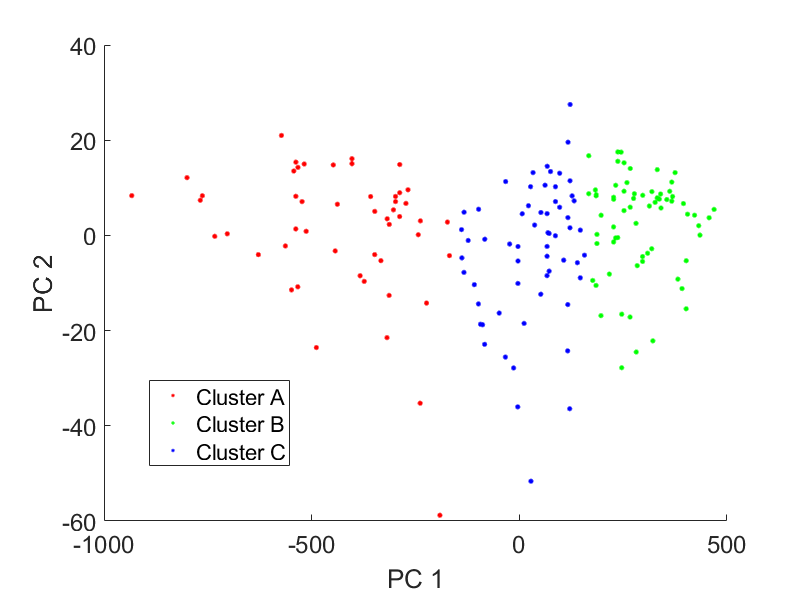
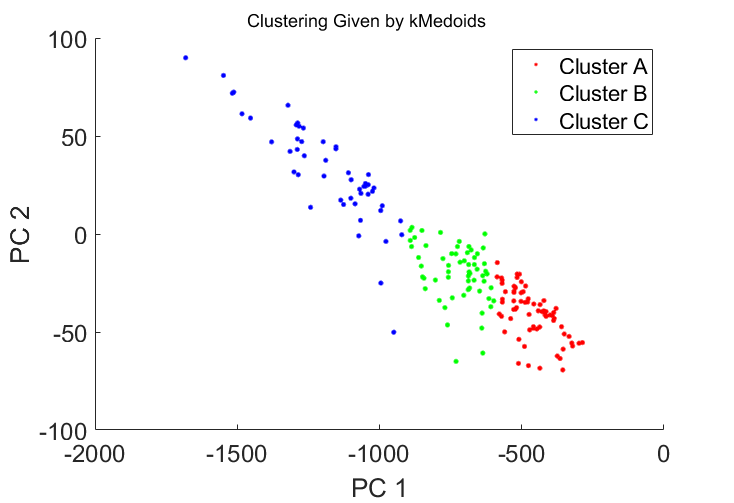
WineAnalysis Finalized -Added WineAnalysis script -Added dMatrix function which takes a data matrix and a distance, produces the resulting distance matrix between all data points

diff --git a/WineAnalysis.m b/WineAnalysis.m
@@ -1,0 +1,90 @@
+%Levent Batakci
+%Analyze all the data!
+
+%Clear vars
+clc
+clear all
+
+%Load WINE data
+load WineData.mat
+I = I';
+
+k=3;
+tau=0.05;
+maxDepth=5;
+
+%Compute the SVD
+Xc = X - sum(X,2) / size(X,2) * ones(1, size(X,2));
+[U, D, V] = svd(X);
+Z2 = [U(:,1) U(:,2)]' * X; %First two PCs of the centered data
+
+figure(1) %Plot the singular values
+plot(1:13, diag(D), '.', 'MarkerSize', 25); %Only two svs (or just 1) matter
+
+%Plot the annotation of the data
+figure(2)
+k1 = Z2(:, I == 1);
+k2 = Z2(:, I == 2);
+k3 = Z2(:, I == 3);
+
+hold on
+scatter(k1(1,:), k1(2,:),125,'r.')
+scatter(k2(1,:), k2(2,:),125,'g.')
+scatter(k3(1,:), k3(2,:),125,'b.')
+legend("Cultivar 1","Cultivar 2","Cultivar 3")
+xlabel("PC 1");
+ylabel("PC 2");
+set(gca,'FontSize', 18);
+sgtitle("Correct Grouping of the Data")
+hold off
+
+%Cluster using kMedoids
+%Plot the clustering via the first two PCs
+figure(3)
+distMatrix = dMatrix(X, @norm2);
+I1 = kMedoids_distMatrix(k, distMatrix, tau, maxDepth);
+k1 = Z2(:, I1 == 1);
+k2 = Z2(:, I1 == 2);
+k3 = Z2(:, I1 == 3);
+
+hold on
+scatter(k1(1,:), k1(2,:),125,'r.')
+scatter(k2(1,:), k2(2,:),125,'g.')
+scatter(k3(1,:), k3(2,:),125,'b.')
+legend("Cluster A","Cluster B","Cluster C");
+xlabel("PC 1")
+ylabel("PC 2"); 
+set(gca,'FontSize', 18);
+sgtitle("Clustering Given by kMedoids")
+hold off
+
+disp("Clustering Matrix for kMedoids");
+M = evaluateClustering(I,I1,k)
+disp(" ");
+
+%Cluster using kMeans
+%Plot the clustering via the first two PCs
+figure(4)
+[Im, iC] = kMeans(k, X, tau, maxDepth, @norm2);
+k1 = Z2(:, Im == 1);
+k2 = Z2(:, Im == 2);
+k3 = Z2(:, Im == 3);
+hold on
+scatter(k1(1,:), k1(2,:),125,'r.')
+scatter(k2(1,:), k2(2,:),125,'g.')
+scatter(k3(1,:), k3(2,:),125,'b.')
+legend("Cluster A","Cluster B","Cluster C");
+xlabel("PC 1")
+ylabel("PC 2"); 
+set(gca,'FontSize', 18);
+sgtitle("Clustering Given by kMeans")
+hold off
+
+disp("Clustering Matrix for kMeans");
+M = evaluateClustering(I,Im,k)
+disp(" ");
+%%%
+
+
+
+

diff --git a/Helper Functions/dMatrix.m b/Helper Functions/dMatrix.m
@@ -1,0 +1,14 @@
+function D = dMatrix(X, dist)
+%DMATRIX Summary of this function goes here
+%   Detailed explanation goes here
+    p = size(X,2);
+    D = zeros(p,p);
+    for i = 1:p
+        D(i,i) = 0;
+        for j = i+1:p
+            D(i,j) = dist(X(:, i), X(:, j));
+            D(j,i) = D(i,j);
+        end
+    end
+end
+
